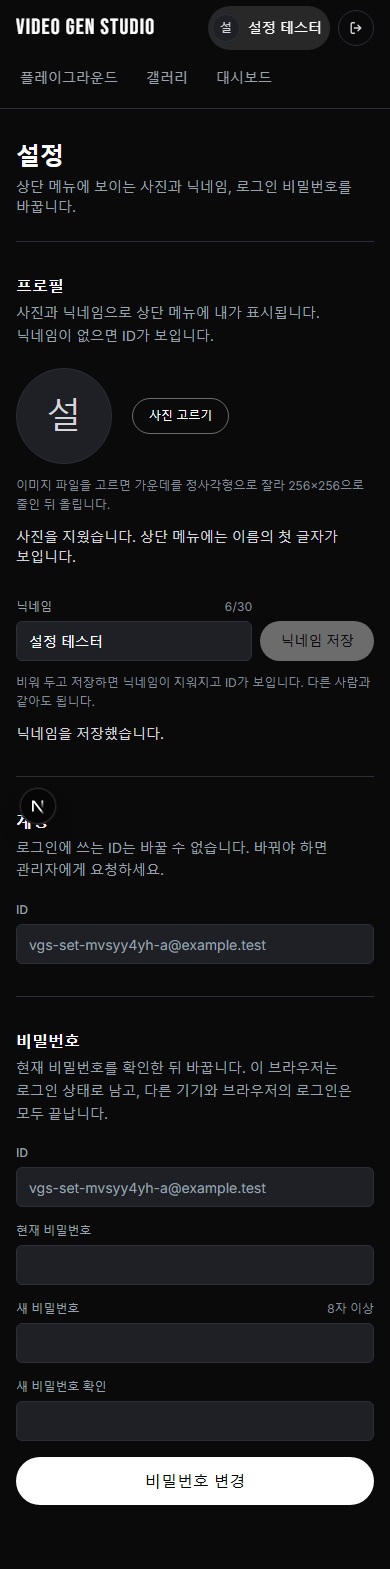
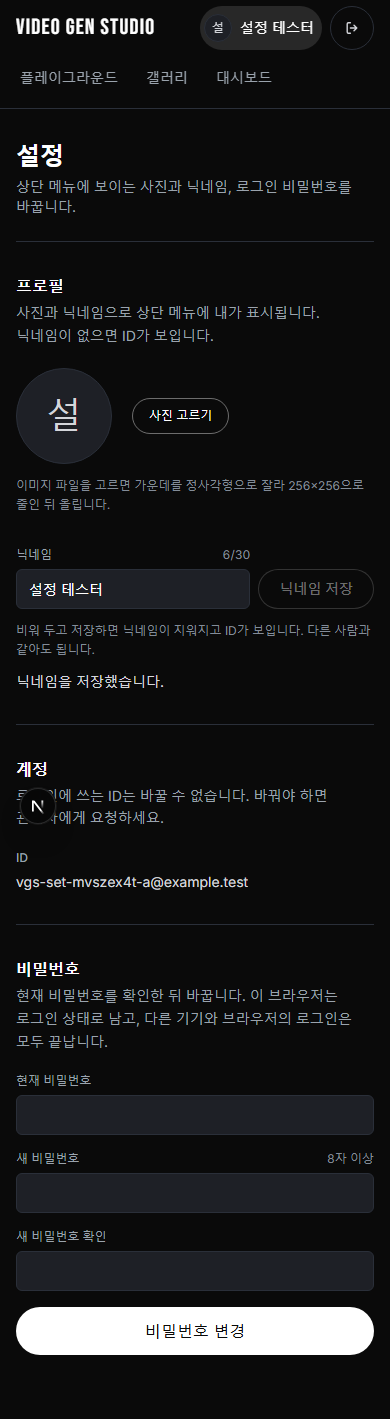
[수정] 설정 화면의 ID 중복과 지난 안내 문구 정리
왜: 한 화면에 ID 입력칸이 둘 보이고 읽기 전용 ID가 입력칸처럼 보였으며, 앞선 사진 결과 문구가 다른 동작 뒤에도 남고, 모바일 로그아웃이 44px 터치 기준보다 작았음
무엇:
- PasswordChangeForm: hideId를 주면 ID를 화면에 그리지 않고 비밀번호 관리자용 숨은 username 입력만 둠, 설정 페이지가 이를 씀
- 설정 계정 구역: ID를 입력칸 대신 dl 글자로 보여 줌, 구역 구분선은 두 열 너비(42rem)에서 끝남
- ProfileEditor: 새 동작을 시작하면 사진·닉네임 안내를 모두 지움, 닉네임 저장은 바뀐 값이 없을 때 outline, 있을 때 흰 주 버튼
- Nav: 모바일 로그아웃 아이콘 버튼을 44px로
- DESIGN.md: 내비의 사진·이름 링크와 모바일 로그아웃, Avatar, 설정의 두 열 구역 배치를 적음
- .impeccable/review/settings-*.png를 고친 화면으로 바꾸고 Blob 없는 상태 2장 추가
검증: npm run typecheck·lint 통과, node --test 56건 통과, vgs run settings 데스크톱·모바일 통과(acc3-r8 Blob 있음, acc3-off Blob 없음), impeccable 마무리 리뷰가 지적 8건 모두 해결로 채점

diff --git a/src/app/(app)/settings/page.tsx b/src/app/(app)/settings/page.tsx
@@ -1,7 +1,7 @@
 import type { ReactNode } from "react";
 import { getCurrentUser } from "@/lib/auth";
 import { avatarUrl, storageEnabled } from "@/lib/storage";
-import { Field, Input, PageContainer } from "@/components/ui";
+import { PageContainer } from "@/components/ui";
 import { PasswordChangeForm } from "@/components/PasswordChangeForm";
 import { ProfileEditor } from "@/components/ProfileEditor";
 
@@ -29,7 +29,7 @@ export default async function SettingsPage() {
     <PageContainer>
       <h1 className="text-2xl font-semibold">설정</h1>
       <p className="mt-1 break-keep text-sm text-muted">상단 메뉴에 보이는 사진과 닉네임, 로그인 비밀번호를 바꿉니다.</p>
-      <div className="mt-6 divide-y divide-border border-t border-border">
+      <div className="mt-6 divide-y divide-border border-t border-border md:max-w-[42rem]">
         <Section id="settings-profile" title="프로필" lead="사진과 닉네임으로 상단 메뉴에 내가 표시됩니다. 닉네임이 없으면 ID가 보입니다.">
           <ProfileEditor
             username={user.username}
@@ -39,16 +39,17 @@ export default async function SettingsPage() {
           />
         </Section>
         <Section id="settings-account" title="계정" lead="로그인에 쓰는 ID는 바꿀 수 없습니다. 바꿔야 하면 관리자에게 요청하세요.">
-          <Field label="ID">
-            <Input value={user.username} readOnly className="text-muted" />
-          </Field>
+          <dl>
+            <dt className="text-xs font-medium text-muted">ID</dt>
+            <dd className="mt-1.5 break-all text-sm text-foreground-2">{user.username}</dd>
+          </dl>
         </Section>
         <Section
           id="settings-password"
           title="비밀번호"
           lead="현재 비밀번호를 확인한 뒤 바꿉니다. 이 브라우저는 로그인 상태로 남고, 다른 기기와 브라우저의 로그인은 모두 끝납니다."
         >
-          <PasswordChangeForm username={user.username} />
+          <PasswordChangeForm username={user.username} hideId />
         </Section>
       </div>
     </PageContainer>

diff --git a/src/components/PasswordChangeForm.tsx b/src/components/PasswordChangeForm.tsx
@@ -5,14 +5,16 @@ import { Button, ErrorText, Field, Input } from "@/components/ui";
 
 type Status = { kind: "idle" } | { kind: "sending" } | { kind: "failed"; error: string } | { kind: "changed" };
 
-type Known = { username?: undefined; currentPassword?: undefined } | { username: string; currentPassword?: string };
+type Known =
+  | { username?: undefined; currentPassword?: undefined; hideId?: undefined }
+  | { username: string; currentPassword?: string; hideId?: boolean };
 
 export type PasswordChangeFormProps = Known & {
   onChanged?: () => void;
   autoFocus?: boolean;
 };
 
-export function PasswordChangeForm({ username, currentPassword, onChanged, autoFocus }: PasswordChangeFormProps) {
+export function PasswordChangeForm({ username, currentPassword, hideId, onChanged, autoFocus }: PasswordChangeFormProps) {
   const [id, setId] = useState("");
   const [current, setCurrent] = useState("");
   const [next, setNext] = useState("");
@@ -54,13 +56,17 @@ export function PasswordChangeForm({ username, currentPassword, onChanged, autoF
 
   return (
     <form onSubmit={submit} className="space-y-4">
-      <Field label="ID">
-        {asksId ? (
-          <Input value={id} onChange={(e) => setId(e.target.value)} autoComplete="username" autoFocus={autoFocus} required />
-        ) : (
-          <Input value={username} readOnly autoComplete="username" className="text-muted" />
-        )}
-      </Field>
+      {hideId ? (
+        <input type="text" value={username} readOnly autoComplete="username" tabIndex={-1} aria-hidden="true" className="sr-only" />
+      ) : (
+        <Field label="ID">
+          {asksId ? (
+            <Input value={id} onChange={(e) => setId(e.target.value)} autoComplete="username" autoFocus={autoFocus} required />
+          ) : (
+            <Input value={username} readOnly autoComplete="username" className="text-muted" />
+          )}
+        </Field>
+      )}
       {asksCurrent && (
         <Field label="현재 비밀번호">
           <Input

diff --git a/src/components/ProfileEditor.tsx b/src/components/ProfileEditor.tsx
@@ -70,6 +70,7 @@ export function ProfileEditor({
   async function pick(file: File | undefined) {
     if (!file) return;
     setPhotoNote(null);
+    setNicknameNote(null);
     setPhoto({ kind: "preparing" });
     try {
       const blob = await squarePhoto(file);
@@ -83,6 +84,8 @@ export function ProfileEditor({
 
   async function savePhoto() {
     if (photo.kind !== "picked") return;
+    setPhotoNote(null);
+    setNicknameNote(null);
     setPhoto({ ...photo, kind: "saving" });
     try {
       const res = await fetch("/api/me/avatar", { method: "PUT", headers: { "Content-Type": photo.blob.type }, body: photo.blob, cache: "no-store" });
@@ -104,6 +107,7 @@ export function ProfileEditor({
 
   async function removePhoto() {
     setPhotoNote(null);
+    setNicknameNote(null);
     setPhoto({ kind: "removing" });
     try {
       const res = await fetch("/api/me/avatar", { method: "DELETE", cache: "no-store" });
@@ -126,6 +130,7 @@ export function ProfileEditor({
 
   async function saveNickname(e: FormEvent) {
     e.preventDefault();
+    setPhotoNote(null);
     if (!parsed.ok) {
       setNicknameNote({ tone: "failed", text: parsed.error });
       return;
@@ -220,7 +225,7 @@ export function ProfileEditor({
               <Input value={typed} onChange={(e) => setTyped(e.target.value)} placeholder={username} autoComplete="nickname" aria-describedby="nickname-help" />
             </Field>
           </div>
-          <Button type="submit" disabled={savingNickname || unchanged} aria-busy={savingNickname}>
+          <Button type="submit" variant={unchanged ? "outline" : "primary"} disabled={savingNickname || unchanged} aria-busy={savingNickname}>
             {savingNickname ? "저장 중…" : "닉네임 저장"}
           </Button>
         </div>

diff --git a/src/components/Nav.tsx b/src/components/Nav.tsx
@@ -67,7 +67,7 @@ export function Nav({ username, nickname, avatarUrl, role }: { username: string;
             type="button"
             onClick={logout}
             title="로그아웃"
-            className="inline-flex size-9 shrink-0 items-center justify-center whitespace-nowrap rounded-full border border-border text-xs text-foreground-2 transition hover:border-foreground hover:text-foreground sm:w-auto sm:px-3"
+            className="inline-flex size-11 shrink-0 items-center justify-center whitespace-nowrap rounded-full border border-border text-xs text-foreground-2 transition hover:border-foreground hover:text-foreground sm:h-9 sm:w-auto sm:px-3"
           >
             <svg viewBox="0 0 20 20" fill="none" stroke="currentColor" strokeWidth="1.75" strokeLinecap="round" strokeLinejoin="round" aria-hidden="true" className="size-4 sm:hidden">
               <path d="M8 3.5H5.5a1.5 1.5 0 0 0-1.5 1.5v10a1.5 1.5 0 0 0 1.5 1.5H8M12.5 6.5 16 10l-3.5 3.5M16 10H8" />

diff --git a/DESIGN.md b/DESIGN.md
@@ -254,7 +254,7 @@ components:
 
 플레이그라운드는 1024px 이상에서 내비 아래 전체 높이(`100dvh − 56px`)를 두 열로 나눈다. 왼쪽 480px 서랍(내부 스크롤, 안쪽 20px, 하단 고정 바), 오른쪽 나머지가 무대. 무대는 세로 스냅 피드와 그 오른쪽 96px 글리프 레일(왼쪽 1px Mist)로 나뉜다. 1024px 미만에서는 무대가 먼저(72dvh, 최소 480px), 레일이 그 아래 가로 바(위 1px Mist)로, 서랍이 그 아래로 온다. 서랍의 썸네일 판·업로드 존·파라미터는 640px 이상에서 2열.
 
-문서형 페이지(갤러리·대시보드·어드민)는 `PageContainer`: 최대 폭 1280px, 좌우 16px, 상하 32px. 로그인은 최대 폭 384px 가운데 정렬.
+문서형 페이지(갤러리·대시보드·설정·어드민)는 `PageContainer`: 최대 폭 1280px, 좌우 16px, 상하 32px. 로그인은 최대 폭 384px 가운데 정렬. 설정은 카드 없이 구역을 Mist 1px 선으로 나누고, 768px 이상에서 구역마다 왼쪽 240px 제목(16px 600)과 muted 설명, 오른쪽 384px 폼의 두 열이며 선은 그 두 열 너비(672px)에서 끝난다. 그 아래로는 한 열.
 
 간격 리듬은 4의 배수에 6px 하나. 라벨과 입력 사이 6px, 필드 사이 16px, 서랍 섹션 사이 16px, 섹션 안 12px, 카드 안쪽 20px, 카드 사이 24px, 문서형 페이지 섹션 사이 32px. 레일 글리프 사이 16px(모바일 12px), 글리프와 카운터 사이 6px.
 
@@ -304,7 +304,10 @@ components:
 - **Field:** 라벨 12px 500 muted, 오른쪽 힌트 subtle 400 tabular(글자 수, 범위, "선택"). 라벨이 입력을 감싸므로 클릭하면 포커스된다.
 
 ### Navigation
-- Sticky 56px, void 85% + blur, 아래 1px Mist. 워드마크 Bebas 22px 흰색. 링크는 알약 14px, 비활성 muted → hover 흰색, 활성 흰색 12% 틴트 + 흰 글자 + `aria-current="page"`. 사용자명 white-dim(먼저 잘림), ADMIN은 Bebas 12px Sand의 4px 테두리 태그, 로그아웃은 36px 알약 outline(Mist 테두리, 12px white-dim, hover 흰색). 모바일은 링크 줄이 가로 스크롤, 44px.
+- Sticky 56px, void 85% + blur, 아래 1px Mist. 워드마크 Bebas 22px 흰색. 링크는 알약 14px, 비활성 muted → hover 흰색, 활성 흰색 12% 틴트 + 흰 글자 + `aria-current="page"`. 로그인한 사람은 28px Avatar와 이름(닉네임, 없으면 ID; white-dim, 먼저 잘림)을 묶은 알약 링크로 `/settings`에 이어지고, hover 흰색 10%, 설정에 있으면 흰색 12% 틴트 + `aria-current="page"`. ADMIN은 Bebas 12px Sand의 4px 테두리 태그, 로그아웃은 36px 알약 outline(Mist 테두리, 12px white-dim, hover 흰색)이며 640px 미만에서는 같은 테두리의 44px 원형 아이콘 버튼(문 밖으로 나가는 화살표, 접근 이름 "로그아웃"). 모바일은 링크 줄이 가로 스크롤, 44px.
+
+### Avatar
+원형, 1px Mist 테두리, slate 바탕. 사진은 object-cover로 원을 채우고, 사진이 없으면 같은 원에 이름 첫 글자(Inter 500, white-dim, 대문자). 내비 28px, 설정 96px. 사진은 업로드 전에 브라우저가 가운데 정사각형 256×256으로 줄인다.
 
 ### Model Select
 표준 `<select>`(Slate 바탕, Mist 1px, 6px, 40px). 라벨 "모델", 오른쪽 힌트에 단가(`$0.0985/s`, tabular). 옵션 텍스트는 "이름 · 공급사 · 단가". 아래에 모델 설명 한 줄(muted)과 고정 제약 한 줄(subtle, 예: "출력은 768p로 고정"). 모델을 바꾸면 파라미터와 레퍼런스가 초기화된다. 카드형 선택은 2026-10-27에 select로 교체했다.
